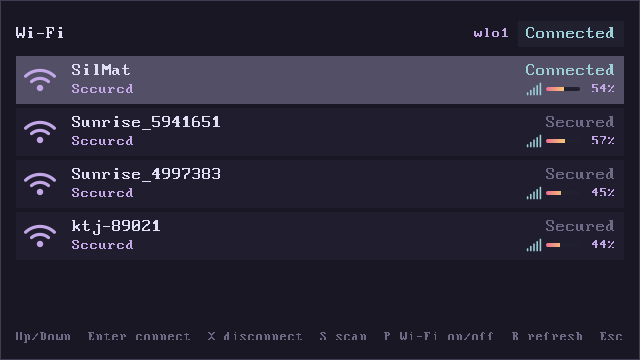
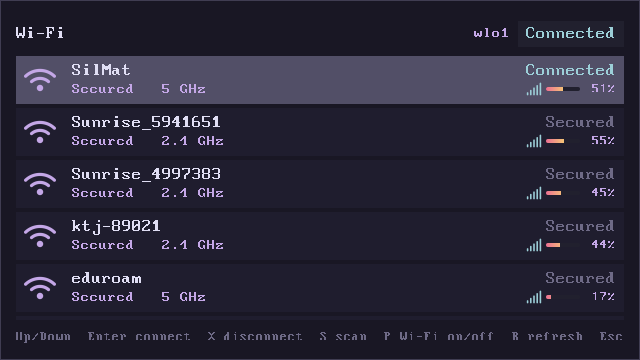
Show Wi-Fi band in network rows

diff --git a/docs/wifi.md b/docs/wifi.md
@@ -55,10 +55,12 @@ after a D-Bus timeout instead of leaving the connection in a partial-message
 state. Initial startup performs one synchronous load before the window is shown.
 
 The header shows the wireless interface and one of `On`, `Off`, `Connected` or
-`Scanning...`. Rows show the SSID, security state and one status label:
-`Connected`, `Saved`, `Secured` or `Open`. The right side shows a signal icon, a
-gradient bar and a fixed-width percentage. The window uses the same 640×360
-default size as the launcher and scrolls when the network list grows.
+`Scanning...`. Rows show the SSID, security state, band and one status label:
+`Connected`, `Saved`, `Secured` or `Open`. The secondary line shows the band of
+the access point represented by the row (`2.4 GHz`, `5 GHz` or `6 GHz`). The
+right side shows a signal icon, a gradient bar and a fixed-width percentage.
+The window uses the same 640×360 default size as the launcher and scrolls when
+the network list grows.
 
 ## Current limitations
 
